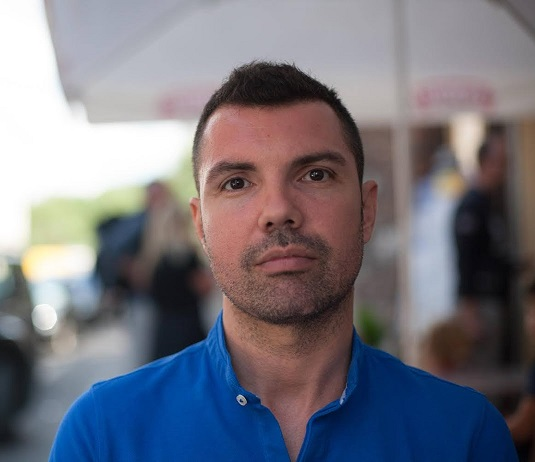
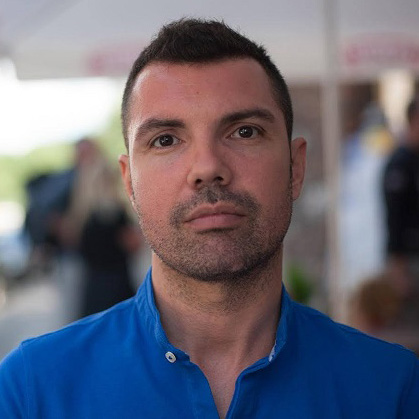
feat: optimize images.
reduce cumulative layout shift

diff --git a/src/views/Cfp/CfpSection.tsx b/src/views/Cfp/CfpSection.tsx
@@ -31,7 +31,7 @@ export const CfpTrackComponent: FC<React.PropsWithChildren<CfpTrackProps>> = ({
     <div style={{ display: "flex", margin: "1rem auto", maxWidth: "80%" }}>
       {track.members.map((member) => {
         return (
-          <div key={member.name} role="article" data-testid={member.name}>
+          <article key={member.name} data-testid={member.name}>
             {member.photo && (
               <div>
                 <StyledAboutImage src={member.photo} alt={member.name} />
@@ -52,7 +52,7 @@ export const CfpTrackComponent: FC<React.PropsWithChildren<CfpTrackProps>> = ({
                 </StyledSocialIconsWrapper>
               </div>
             )}
-          </div>
+          </article>
         );
       })}
     </div>

diff --git a/src/views/About/components/Style.AboutCard.tsx b/src/views/About/components/Style.AboutCard.tsx
@@ -9,6 +9,7 @@ export const StyledAboutCard = styled.div`
 export const StyledAboutImage = styled.img`
   width: 100%;
   max-height: 20rem;
+  aspect-ratio: 1/1;
   border-radius: 30% 70% 70% 30% / 30% 29% 71% 70%;
 `;
 export const StyledAboutName = styled.h4<{ color: string }>`
